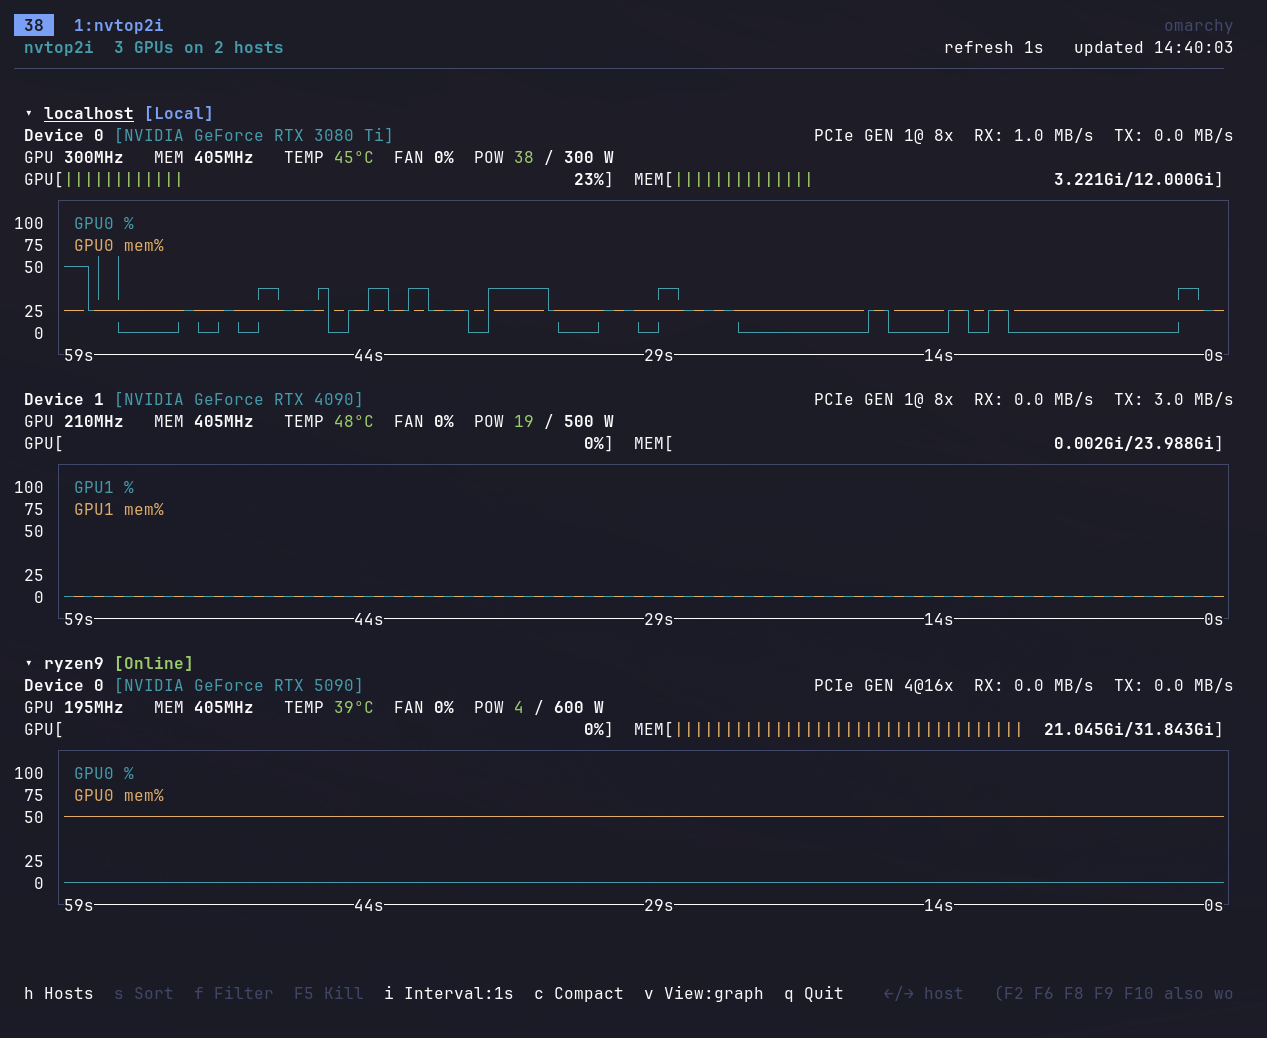
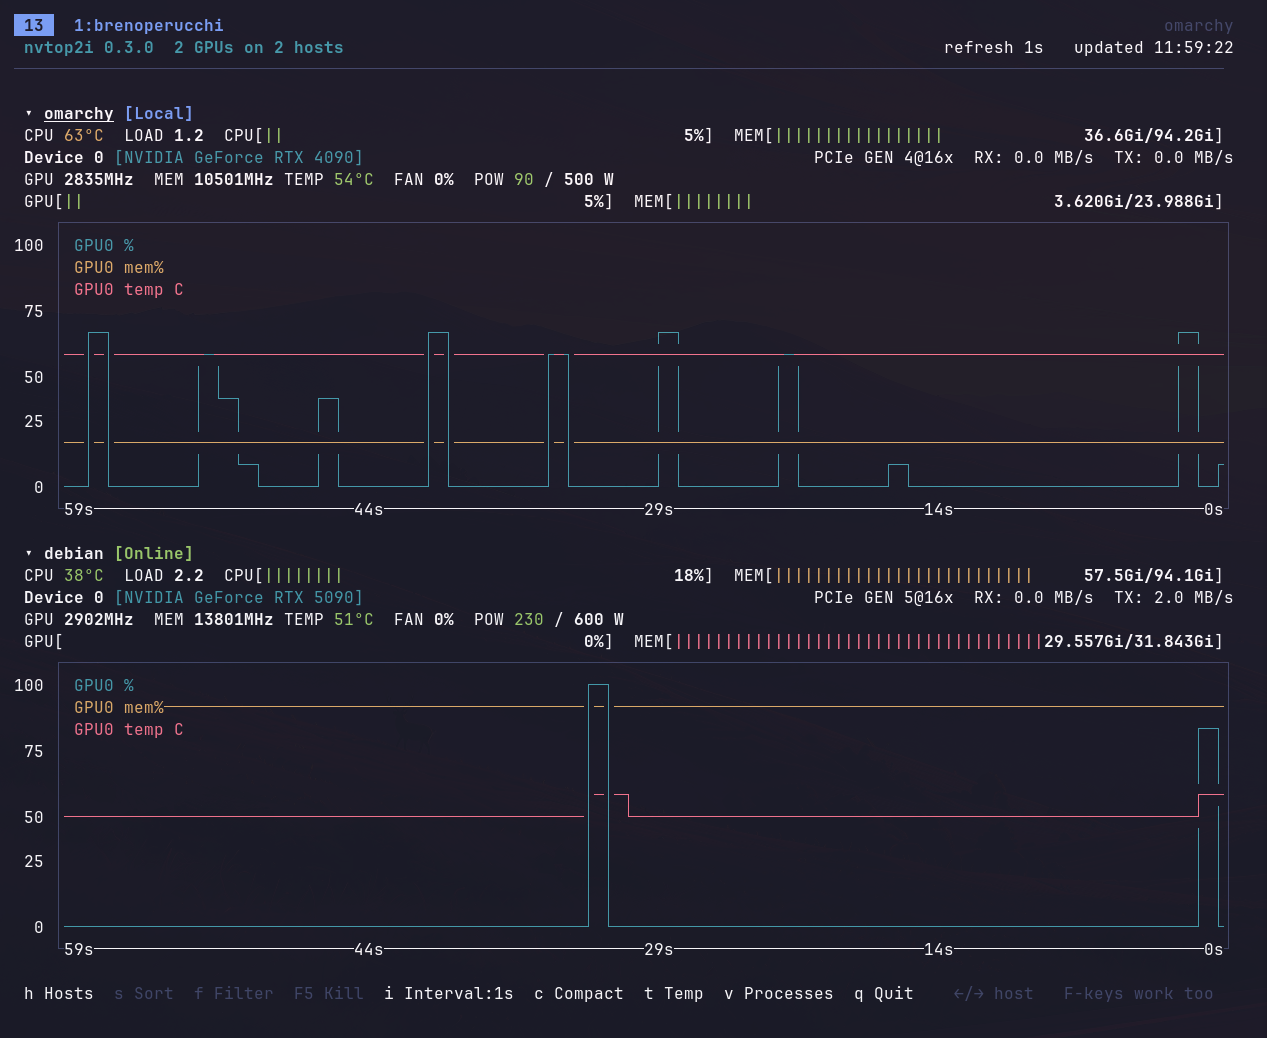
Update the screenshot and README, bump to 0.4.0
The screenshot shows the new CPU line and the temperature in the charts.
The README text describes both.

diff --git a/nvtop2i/__init__.py b/nvtop2i/__init__.py
@@ -1,3 +1,3 @@
 """nvtop2i: an nvtop-style GPU monitor for several hosts over SSH."""
 
-__version__ = "0.3.0"
+__version__ = "0.4.0"

diff --git a/README.md b/README.md
@@ -2,9 +2,9 @@
 
 A terminal GPU monitor in the style of [nvtop](https://github.com/Syllo/nvtop). It shows the GPUs of your own machine and of any hosts you can reach over SSH, all on one screen.
 
-![nvtop2i showing three GPUs on two hosts](docs/screenshot.png)
+![nvtop2i showing two GPUs on two hosts, each with a CPU line](docs/screenshot.png)
 
-Each GPU has the usual nvtop header: clocks, temperature, fan, power, PCIe link and throughput, plus utilization and memory bars. Under it sits a chart of the last 60 seconds of GPU and memory use. A second view lists the GPU processes of every host.
+Each GPU has the usual nvtop header: clocks, temperature, fan, power, PCIe link and throughput, plus utilization and memory bars. Under it sits a chart of the last 60 seconds of GPU use, memory use and temperature. Each host also gets one line with its CPU temperature, load, CPU use and memory. A second view lists the GPU processes of every host.
 
 ## Install
 
